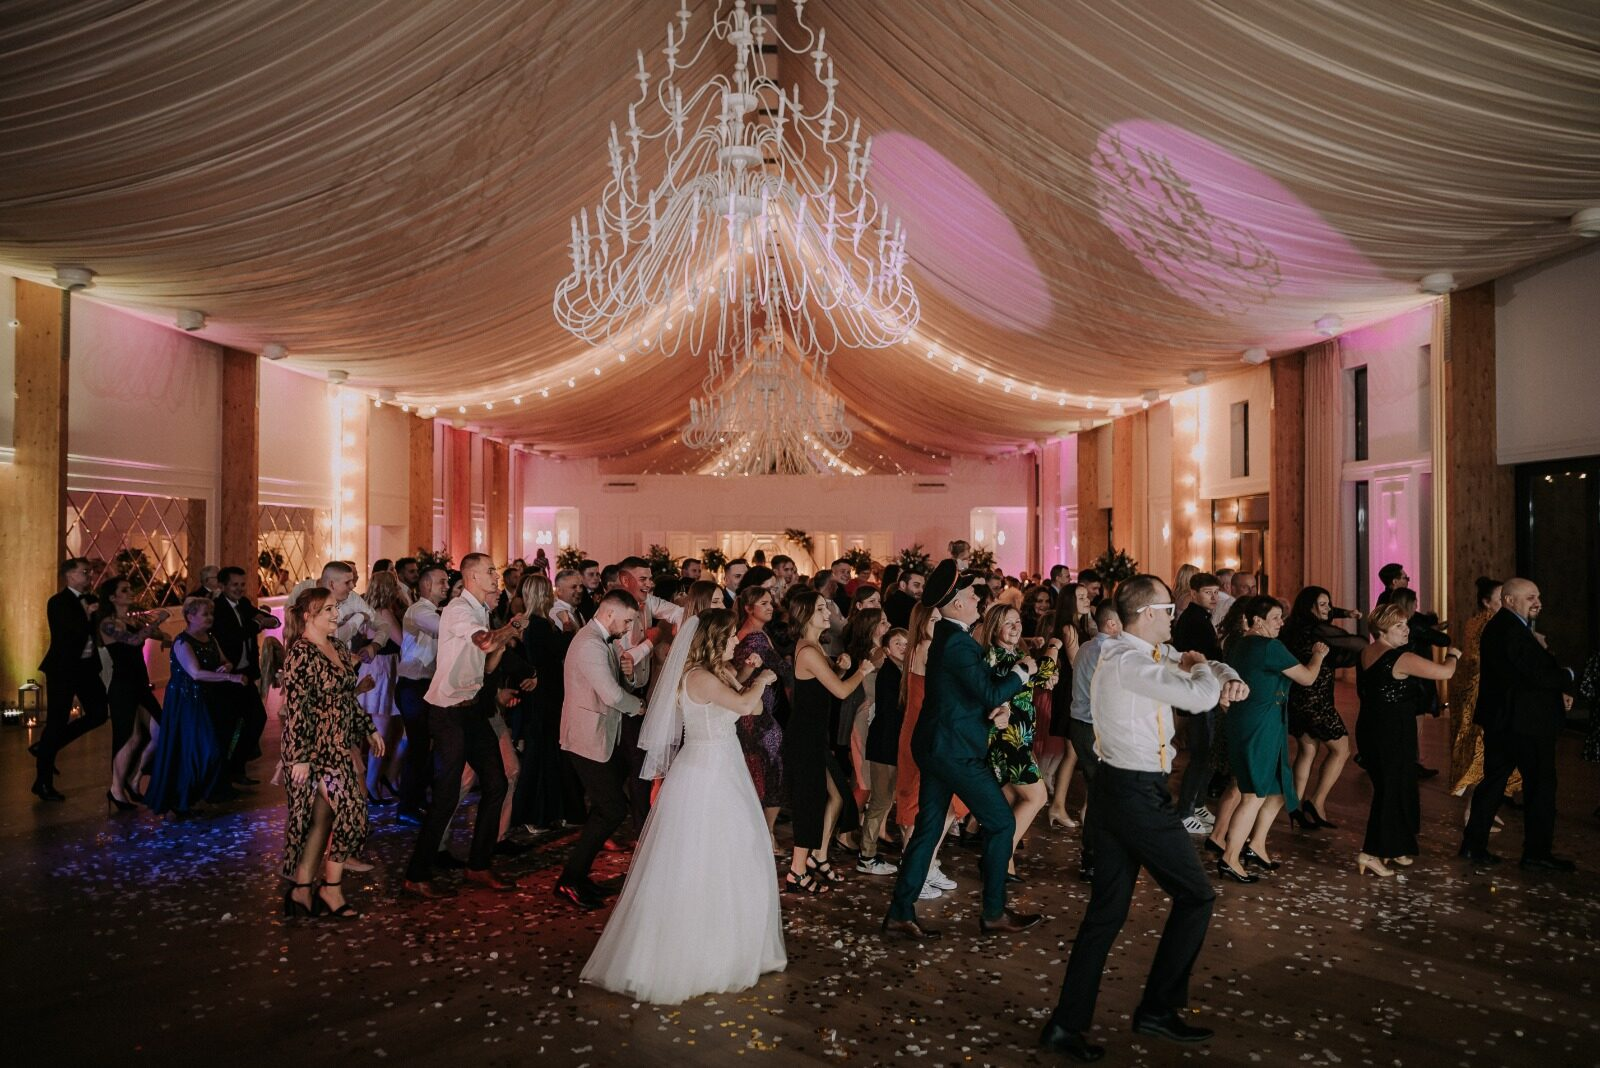
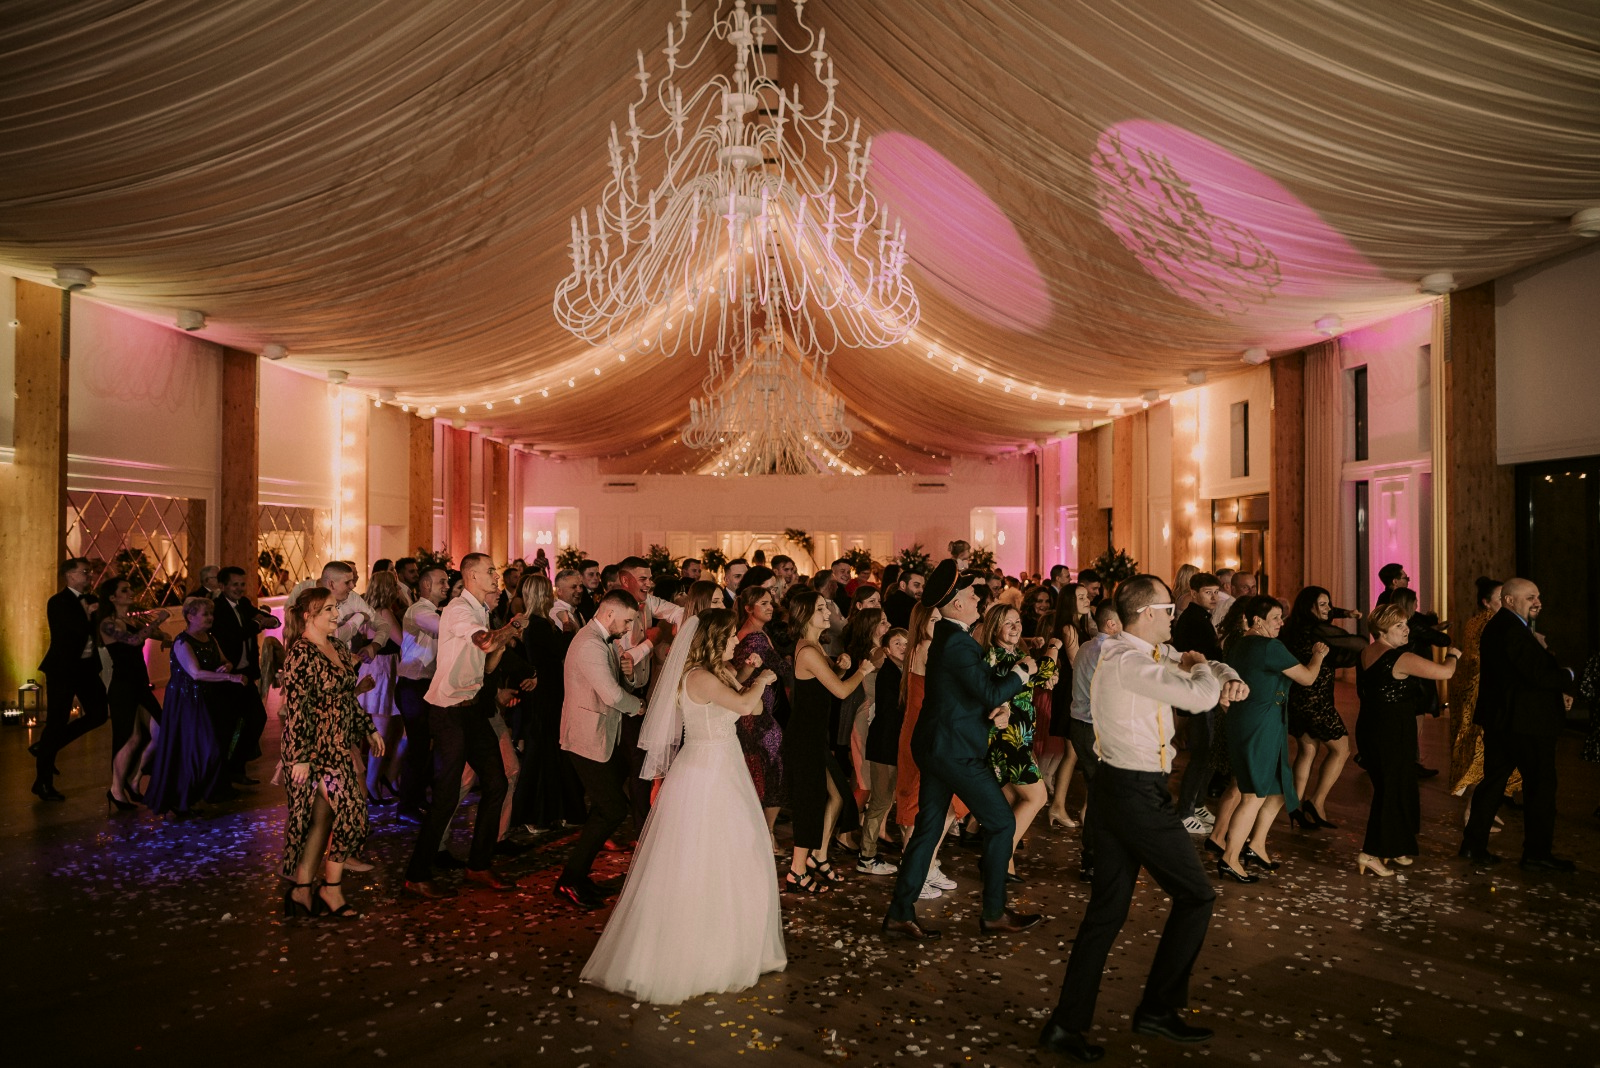
style(gallery): change filter parameters  on images

diff --git a/src/constants/gallery.ts b/src/constants/gallery.ts
@@ -15,8 +15,8 @@ export const galleryData: GalleryImageType[] = [
     imgSrc: "/images/gallery/wedding-venue.jpg",
     altKey: "weddingVenue",
     ratio: "aspect-4/3",
-    contrast: "contrast-93",
-    hue: "hue-rotate-10",
+    contrast: "contrast-108",
+    hue: "hue-rotate-05",
     width: "lg:col-span-3",
     sizes: "(max-width: 768px) 100vw, 50vw",
   },
